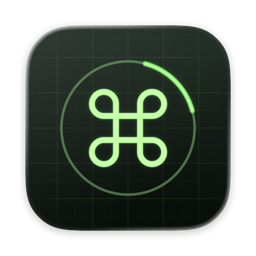
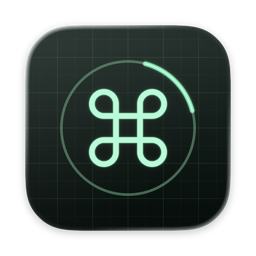
Mint phosphor, and the wheel on a desktop in the README
- The wheel's green leans cooler, towards mint, in both themes; the app
  icon is redrawn in the same color
- The README picture shows the wheel open over a desktop with Safari and
  Finder windows instead of the wheel alone

Changed region(s): [[0.3438, 0.3438, 0.6562, 0.6562], [0.5625, 0.2188, 0.7812, 0.4375]]

diff --git a/Sources/CmdTabWheel/WheelPalette.swift b/Sources/CmdTabWheel/WheelPalette.swift
@@ -5,25 +5,25 @@ struct WheelPalette {
     let isDark: Bool
 
     var ink: Color {
-        isDark ? Color(red: 0.77, green: 0.91, blue: 0.71) : Color(red: 0.12, green: 0.18, blue: 0.12)
+        isDark ? Color(red: 0.76, green: 0.91, blue: 0.82) : Color(red: 0.12, green: 0.18, blue: 0.15)
     }
 
     var secondaryInk: Color {
-        isDark ? Color(red: 0.57, green: 0.70, blue: 0.53) : Color(red: 0.35, green: 0.43, blue: 0.33)
+        isDark ? Color(red: 0.55, green: 0.70, blue: 0.61) : Color(red: 0.33, green: 0.43, blue: 0.38)
     }
 
     var accent: Color {
-        isDark ? Color(red: 0.49, green: 0.95, blue: 0.38) : Color(red: 0.16, green: 0.43, blue: 0.13)
+        isDark ? Color(red: 0.48, green: 0.88, blue: 0.65) : Color(red: 0.08, green: 0.42, blue: 0.26)
     }
 
     var surfaceTop: Color {
-        isDark ? Color(red: 0.09, green: 0.12, blue: 0.095).opacity(0.34)
-               : Color(red: 0.97, green: 0.98, blue: 0.97).opacity(0.22)
+        isDark ? Color(red: 0.09, green: 0.12, blue: 0.11).opacity(0.34)
+               : Color(red: 0.97, green: 0.98, blue: 0.975).opacity(0.22)
     }
 
     var surfaceBottom: Color {
-        isDark ? Color(red: 0.05, green: 0.07, blue: 0.055).opacity(0.46)
-               : Color(red: 0.90, green: 0.93, blue: 0.91).opacity(0.34)
+        isDark ? Color(red: 0.05, green: 0.07, blue: 0.06).opacity(0.46)
+               : Color(red: 0.90, green: 0.93, blue: 0.92).opacity(0.34)
     }
 
     var grid: Color { accent.opacity(isDark ? 0.15 : 0.09) }
@@ -42,11 +42,11 @@ struct WheelPalette {
     var separator: Color { ink.opacity(0.12) }
 
     var actionRailSurface: Color {
-        isDark ? Color(red: 0.14, green: 0.19, blue: 0.14).opacity(0.98) : Color(white: 0.98).opacity(0.98)
+        isDark ? Color(red: 0.14, green: 0.19, blue: 0.16).opacity(0.98) : Color(white: 0.98).opacity(0.98)
     }
 
     var markSurface: Color {
-        isDark ? Color(red: 0.19, green: 0.25, blue: 0.18) : actionRailSurface
+        isDark ? Color(red: 0.19, green: 0.25, blue: 0.215) : actionRailSurface
     }
 
     var previewShadow: Double { isDark ? 0.26 : 0.12 }

diff --git a/scripts/draw-icon-layers.swift b/scripts/draw-icon-layers.swift
@@ -10,7 +10,7 @@ import UniformTypeIdentifiers
 let size = 1024
 let center = CGPoint(x: 512, y: 512)
 let colorSpace = CGColorSpace(name: CGColorSpace.sRGB)!
-let phosphor = CGColor(red: 0.49, green: 0.95, blue: 0.38, alpha: 1)
+let phosphor = CGColor(red: 0.48, green: 0.88, blue: 0.65, alpha: 1)
 let outputDirectory = URL(fileURLWithPath: CommandLine.arguments.count > 1
     ? CommandLine.arguments[1] : "Support/AppIcon.icon/Assets", isDirectory: true)
 
@@ -100,15 +100,15 @@ try render("display.png") { context in
 
 try render("phosphor-orbit.png") { context in
     stroke(orbit(from: 0, to: 2 * .pi), in: context,
-           color: CGColor(red: 0.38, green: 0.61, blue: 0.33, alpha: 0.55), width: 13)
+           color: CGColor(red: 0.33, green: 0.57, blue: 0.42, alpha: 0.55), width: 13)
     let trace = orbit(from: .pi / 12, to: 5 * .pi / 12)
     stroke(trace, in: context, color: phosphor.copy(alpha: 0.24)!, width: 27, glow: 24)
     stroke(trace, in: context, color: phosphor, width: 20, glow: 9)
-    stroke(trace, in: context, color: CGColor(red: 0.76, green: 1, blue: 0.61, alpha: 0.9), width: 5)
+    stroke(trace, in: context, color: CGColor(red: 0.73, green: 1, blue: 0.84, alpha: 0.9), width: 5)
 }
 
 try render("phosphor-command.png") { context in
     let glyph = commandPath()
     stroke(glyph, in: context, color: phosphor.copy(alpha: 0.2)!, width: 35, glow: 26)
-    stroke(glyph, in: context, color: CGColor(red: 0.70, green: 0.99, blue: 0.57, alpha: 1), width: 28, glow: 8)
+    stroke(glyph, in: context, color: CGColor(red: 0.65, green: 0.95, blue: 0.78, alpha: 1), width: 28, glow: 8)
 }

diff --git a/README.md b/README.md
@@ -7,7 +7,7 @@
 <p align="center">A radial app switcher for macOS: hold ⌘, press Tab, point at an app, let go.</p>
 
 <p align="center">
-  <img src="docs/wheel-preview.png" width="800" alt="The current graphite and green CRT wheel, with Terminal selected and its window preview in the middle">
+  <img src="docs/desktop-preview.jpg" width="960" alt="Desktop demo of ⌘Tab Wheel over light Safari and dark Finder windows on a deep blue space desktop with an illuminated rocky planet and distant galaxy: nineteen apps across twenty sectors, two Terminal windows, the first selected with a Started by Codex launch mark, and window contours visible through the green glass wheel">
 </p>
 
 ## Features
